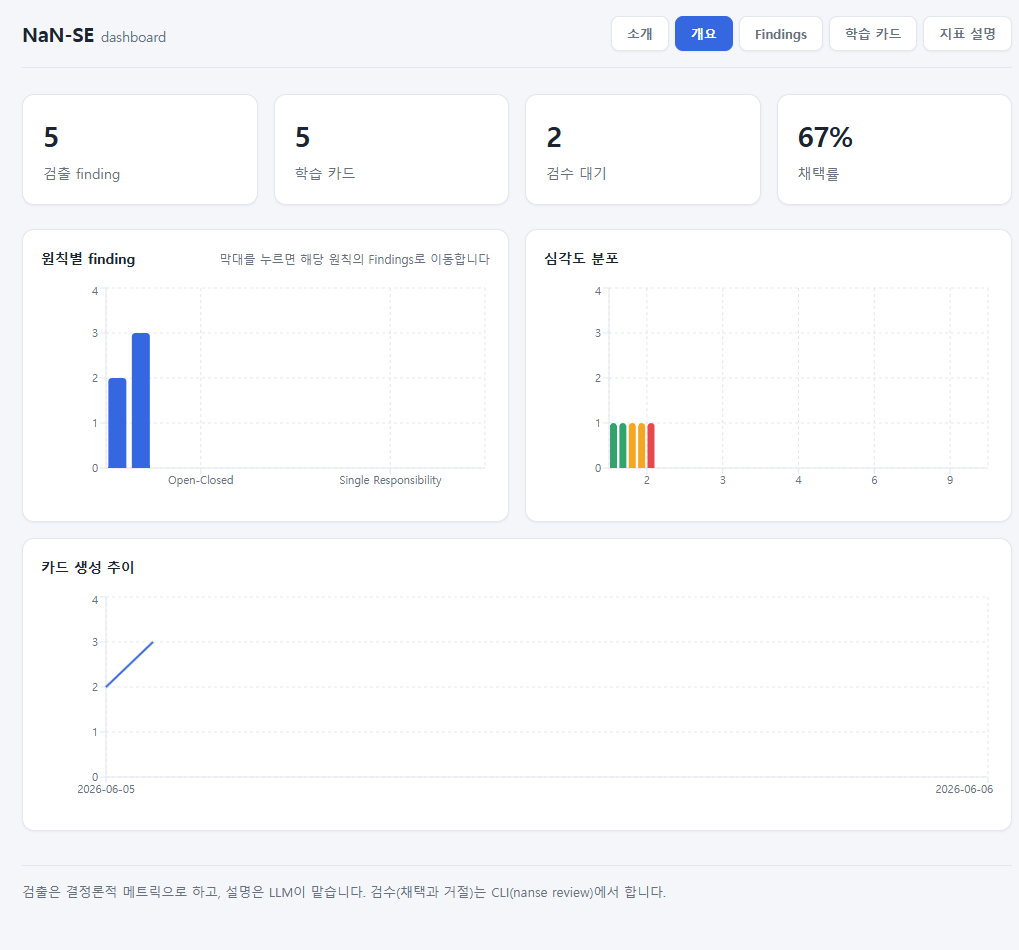
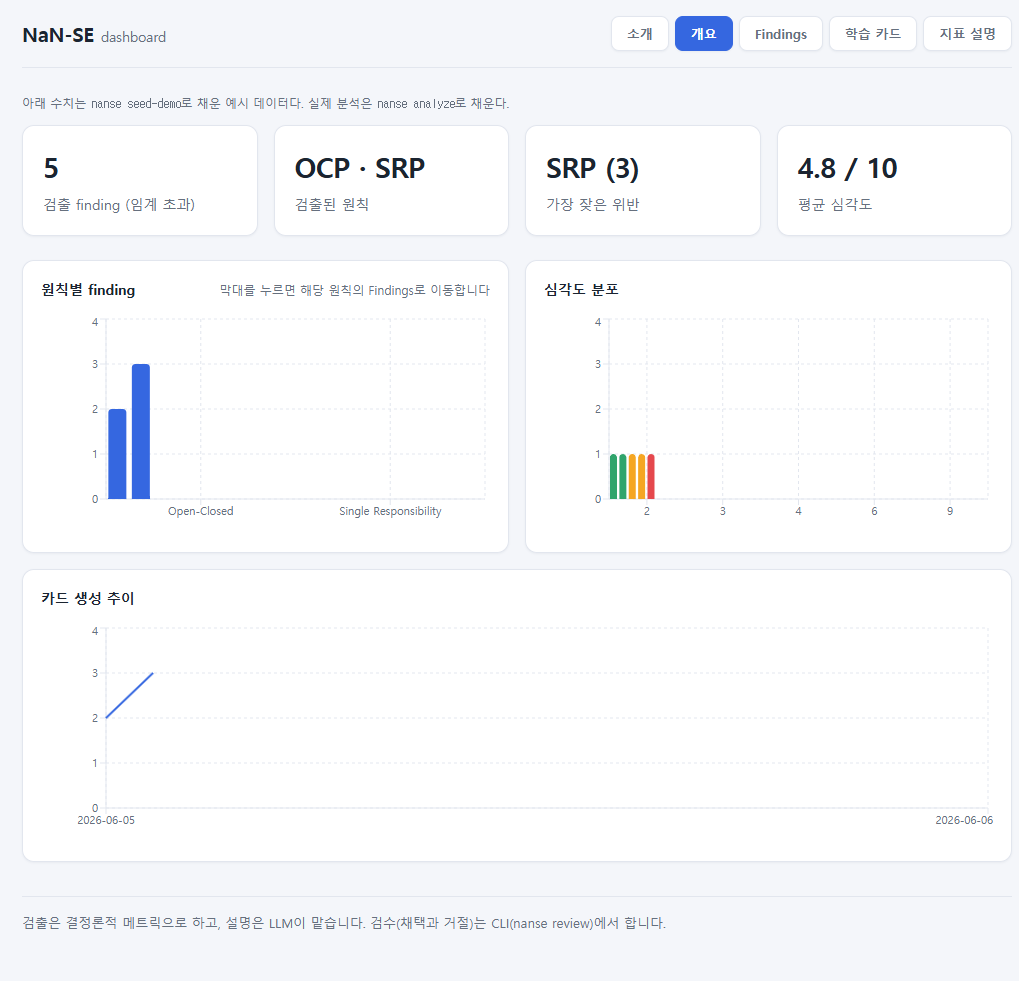
feat(web): 대시보드 헤드라인을 검출 의미 중심으로 교체, SRP/OCP 매핑 명확화
- 임의의 학습카드 수·채택률 대신 검출된 원칙·가장 잦은 위반·평균 심각도를 표시
- seed-demo 예시 데이터임을 대시보드 상단에 명시
- 랜딩 검출 설명에서 응집 결손과 SRP를 등치하지 않고 위반 신호로 풀어 서술

diff --git a/web/src/components/Overview.tsx b/web/src/components/Overview.tsx
@@ -16,6 +16,16 @@ import { useFetch } from "../useFetch";
 const SEV_COLOR = (s: number) =>
   s >= 7 ? "#e5484d" : s >= 4 ? "#f5a623" : "#30a46c";
 
+const SHORT_PRINCIPLE: Record<string, string> = {
+  "Single Responsibility": "SRP",
+  "Open-Closed": "OCP",
+  "Liskov Substitution": "LSP",
+  "Interface Segregation": "ISP",
+  "Dependency Inversion": "DIP",
+};
+
+const shorten = (p: string) => SHORT_PRINCIPLE[p] ?? p;
+
 const GRID = "#e2e6ee";
 const AXIS = "#66707e";
 const tickStyle = { fontSize: 11, fill: AXIS };
@@ -40,18 +50,35 @@ export default function Overview({
   if (error) return <p className="error">API 연결에 실패했습니다: {error}</p>;
   if (!data) return null;
 
-  const rate =
-    data.acceptance_rate === null
-      ? "—"
-      : `${Math.round(data.acceptance_rate * 100)}%`;
+  const principles = data.by_principle.map((d) => shorten(d.principle));
+  const principleLabel = principles.length ? principles.join(" · ") : "—";
+
+  const topPrinciple = [...data.by_principle].sort(
+    (a, b) => b.count - a.count,
+  )[0];
+  const topPrincipleLabel = topPrinciple
+    ? `${shorten(topPrinciple.principle)} (${topPrinciple.count})`
+    : "—";
+
+  const sevTotal = data.by_severity.reduce((s, d) => s + d.count, 0);
+  const sevWeighted = data.by_severity.reduce(
+    (s, d) => s + d.severity * d.count,
+    0,
+  );
+  const avgSeverity =
+    sevTotal > 0 ? `${(sevWeighted / sevTotal).toFixed(1)} / 10` : "—";
 
   return (
     <div>
+      <p className="muted small" style={{ marginBottom: 12 }}>
+        아래 수치는 <code>nanse seed-demo</code>로 채운 예시 데이터다. 실제
+        분석은 <code>nanse analyze</code>로 채운다.
+      </p>
       <div className="stat-row">
-        <StatCard label="검출 finding" value={String(data.total_findings)} />
-        <StatCard label="학습 카드" value={String(data.total_cards)} />
-        <StatCard label="검수 대기" value={String(data.review.pending)} />
-        <StatCard label="채택률" value={rate} />
+        <StatCard label="검출 finding (임계 초과)" value={String(data.total_findings)} />
+        <StatCard label="검출된 원칙" value={principleLabel} />
+        <StatCard label="가장 잦은 위반" value={topPrincipleLabel} />
+        <StatCard label="평균 심각도" value={avgSeverity} />
       </div>
 
       <div className="chart-grid">

diff --git a/web/src/components/Landing.tsx b/web/src/components/Landing.tsx
@@ -99,8 +99,9 @@ export default function Landing({
           <div className="pillar-tag det">검출</div>
           <h3>결정론적이라 흔들리지 않습니다</h3>
           <p className="muted">
-            LCOM4의 연결 요소 수로 응집 결손(SRP)을, radon 순환복잡도로 분기 폭증을
-            정적으로 측정합니다. 같은 코드에는 같은 결과가 나옵니다.
+            LCOM4의 연결 요소 수로 응집 결손을, radon 순환복잡도로 분기 폭증을
+            정적으로 측정합니다. 응집이 갈라지면 SRP 위반, 분기가 폭증하면 OCP
+            위반을 의심합니다. 같은 코드에는 같은 결과가 나옵니다.
           </p>
         </div>
         <div className="pillar">
